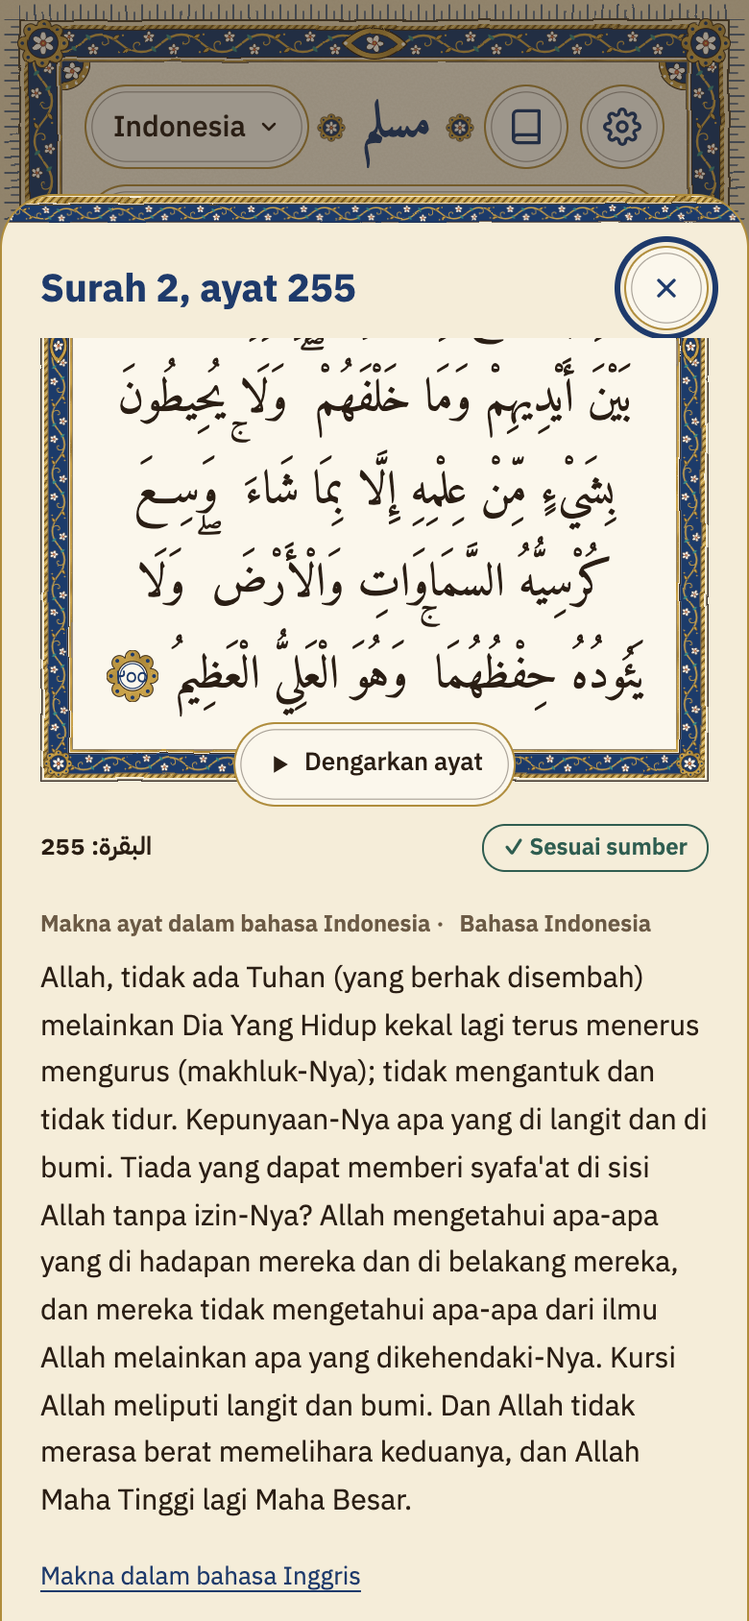
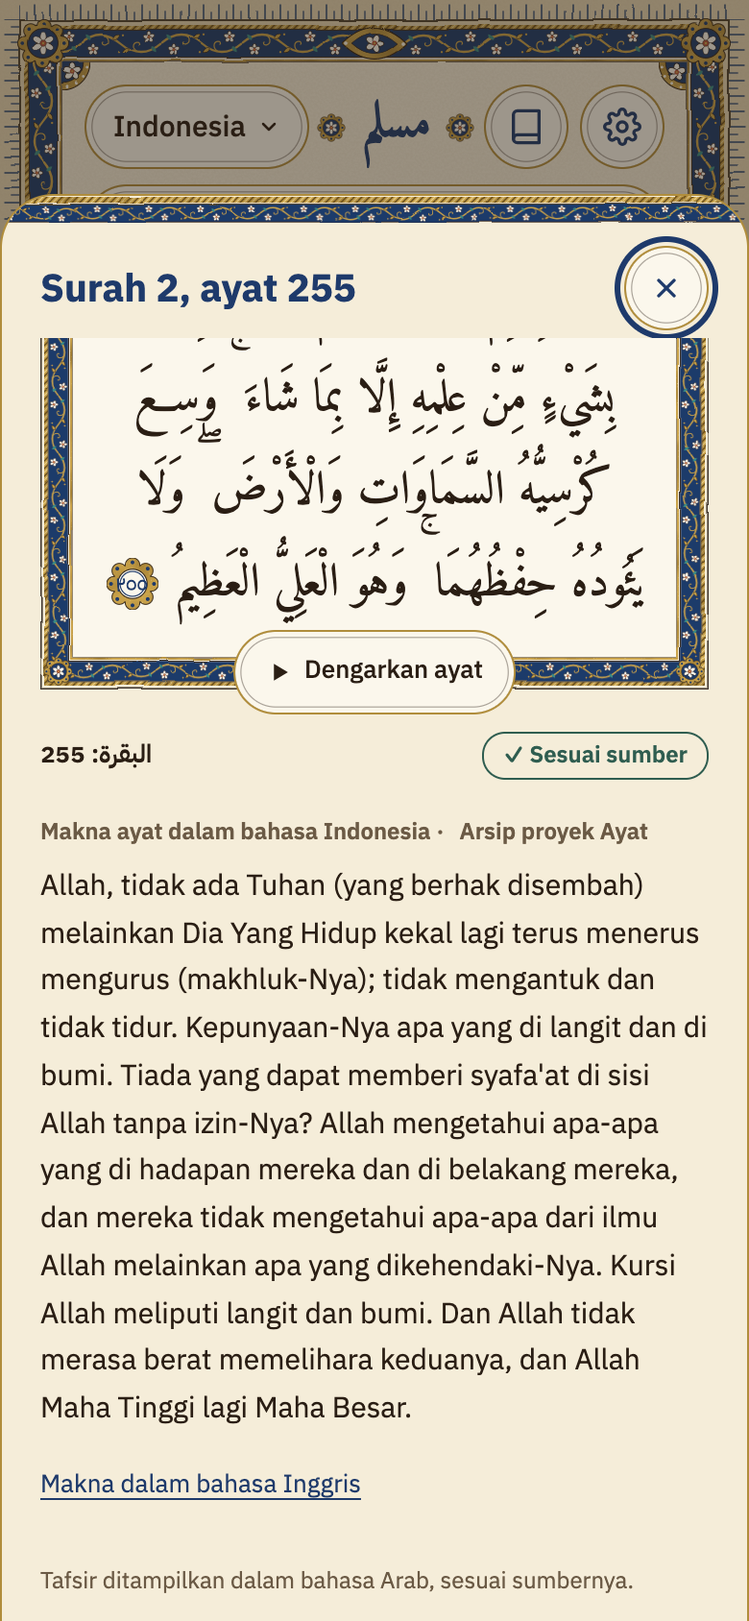
Where the Ayat archive names the language and not a translator (Indonesian: «Indonesian - Bahasa Indonesia»), the credit is «the Ayat project archive» in the interface language, never the language in the translator's place (reply 0025): the ayah sheet, the card, the surah view and the voice line; de
Claude-Session: https://claude.ai/code/session_01NhnKbqP2SqsDhU1SFEix5H

Changed region(s): [[0.0308, 0.1848, 0.9538, 0.9858], [0.5846, 0.955, 0.8308, 0.9858], [0.4, 0.1848, 0.4308, 0.2156]]

diff --git a/web/src/i18n/hi.ts b/web/src/i18n/hi.ts
@@ -62,7 +62,7 @@ const hi: Strings = {
   errServer: 'हमारी ओर से कोई गड़बड़ी हुई। फिर कोशिश करें।',
 
   sourcesTitle: 'उत्तर कहाँ से आते हैं?',
-  sourcesIntro: '«मुस्लिम» ऐप स्रोतों तक सीमित एक ज्ञान सहायक है, मुफ़्ती नहीं। यह केवल स्वीकृत पाठ से उत्तर देता है; पाठ न हो तो उत्तर देने से इनकार करता है और आपको सक्षम संस्था की ओर भेजता है। एआई का उपयोग पाठ खोजने और उन्हें क्रम देने, प्रश्न का स्तर तय करने, और आवाज़ को लिखित पाठ में बदलने के लिए होता है; यह कभी कोई धार्मिक पाठ नहीं लिखता या बदलता। सात भाषाओं में आयतों का अर्थ किंग सऊद विश्वविद्यालय की आयात परियोजना के अनुवादों से है: उर्दू (Jalandhry), इंडोनेशियाई (Bahasa Indonesia), मलय (Basmeih), तुर्की (Diyanet Isleri), फ़्रांसीसी (Hamidullah), स्पेनिश (Navio) और बांग्ला (Muhiuddin Khan); अंग्रेज़ी में Sahih International; हिंदी में अंग्रेज़ी दिखाई जाती है। अरबी के अलावा अन्य भाषाओं में चुनी हुई आयतों के लिए तफ़सीर अल-मुयस्सर का मशीनी अनुवाद है, जो स्वतंत्र समीक्षा में सफल रहा; कोई बनाई गई व्याख्या नहीं।',
+  sourcesIntro: '«मुस्लिम» ऐप स्रोतों तक सीमित एक ज्ञान सहायक है, मुफ़्ती नहीं। यह केवल स्वीकृत पाठ से उत्तर देता है; पाठ न हो तो उत्तर देने से इनकार करता है और आपको सक्षम संस्था की ओर भेजता है। एआई का उपयोग पाठ खोजने और उन्हें क्रम देने, प्रश्न का स्तर तय करने, और आवाज़ को लिखित पाठ में बदलने के लिए होता है; यह कभी कोई धार्मिक पाठ नहीं लिखता या बदलता। सात भाषाओं में आयतों का अर्थ किंग सऊद विश्वविद्यालय की आयात परियोजना के अनुवादों से है: उर्दू (Jalandhry), इंडोनेशियाई, मलय (Basmeih), तुर्की (Diyanet Isleri), फ़्रांसीसी (Hamidullah), स्पेनिश (Navio) और बांग्ला (Muhiuddin Khan); अंग्रेज़ी में Sahih International; हिंदी में अंग्रेज़ी दिखाई जाती है। अरबी के अलावा अन्य भाषाओं में चुनी हुई आयतों के लिए तफ़सीर अल-मुयस्सर का मशीनी अनुवाद है, जो स्वतंत्र समीक्षा में सफल रहा; कोई बनाई गई व्याख्या नहीं।',
   approvedSources: 'स्वीकृत स्रोत',
   srcQuran: 'क़ुरआन और उसकी तफ़सीर',
   srcQuranBy: 'आयात परियोजना, किंग सऊद विश्वविद्यालय',
@@ -234,6 +234,8 @@ const hi: Strings = {
   meaningMine: 'आयत का अर्थ', // command 22: the meaning in the reader's language (seven languages)
   meaningEnButton: 'अंग्रेज़ी में अर्थ',
   speakMeaningMine: 'आयत का अर्थ, {translator} के अनुवाद में',
+  meaningArchive: 'आयात परियोजना का संग्रह',
+  speakMeaningArchive: 'आयत का अर्थ, आयात परियोजना के संग्रह से',
   howFoundMeanings: 'सात भाषाओं में आयतों का अर्थ आयात परियोजना में अपनाए गए अनुवादों से है; अंग्रेज़ी में Sahih International से; हिंदी में अंग्रेज़ी दिखाई जाती है।',
   explainBoxTitle: "तफ़सीर अल-मुयस्सर की सरल मशीनी व्याख्या",
   explainSource: "स्रोत: तफ़सीर अल-मुयस्सर ↗",

diff --git a/web/src/i18n/bn.ts b/web/src/i18n/bn.ts
@@ -62,7 +62,7 @@ const bn: Strings = {
   errServer: 'আমাদের দিকে একটি সমস্যা হয়েছে। আবার চেষ্টা করুন।',
 
   sourcesTitle: 'উত্তরগুলো কোথা থেকে আসে?',
-  sourcesIntro: '«মুসলিম» অ্যাপ একটি উৎস-নির্ভর জ্ঞান সহকারী, মুফতি নয়। এটি কেবল অনুমোদিত পাঠ থেকে উত্তর দেয়; পাঠ না থাকলে বিরত থাকে এবং আপনাকে যোগ্য কর্তৃপক্ষের কাছে পাঠায়। এআই ব্যবহার করা হয় পাঠ খুঁজে বের করতে ও সাজাতে, প্রশ্নের স্তর নির্ধারণ করতে, এবং কথাকে লেখায় রূপান্তর করতে; এটি কখনো কোনো ধর্মীয় পাঠ লেখে না বা পরিবর্তন করে না। সাত ভাষায় আয়াতের অর্থ কিং সৌদ বিশ্ববিদ্যালয়ের আয়াত প্রকল্পের অনুবাদ থেকে: উর্দু (Jalandhry), ইন্দোনেশীয় (Bahasa Indonesia), মালয় (Basmeih), তুর্কি (Diyanet Isleri), ফরাসি (Hamidullah), স্প্যানিশ (Navio) ও বাংলা (Muhiuddin Khan); ইংরেজিতে Sahih International; হিন্দিতে ইংরেজি দেখানো হয়। আরবি ছাড়া অন্য ভাষায় নির্বাচিত আয়াতের জন্য তাফসীরুল মুয়াস্সারের যান্ত্রিক অনুবাদ আছে, যা স্বাধীন পর্যালোচনায় উত্তীর্ণ; কোনো তৈরি ব্যাখ্যা নেই।',
+  sourcesIntro: '«মুসলিম» অ্যাপ একটি উৎস-নির্ভর জ্ঞান সহকারী, মুফতি নয়। এটি কেবল অনুমোদিত পাঠ থেকে উত্তর দেয়; পাঠ না থাকলে বিরত থাকে এবং আপনাকে যোগ্য কর্তৃপক্ষের কাছে পাঠায়। এআই ব্যবহার করা হয় পাঠ খুঁজে বের করতে ও সাজাতে, প্রশ্নের স্তর নির্ধারণ করতে, এবং কথাকে লেখায় রূপান্তর করতে; এটি কখনো কোনো ধর্মীয় পাঠ লেখে না বা পরিবর্তন করে না। সাত ভাষায় আয়াতের অর্থ কিং সৌদ বিশ্ববিদ্যালয়ের আয়াত প্রকল্পের অনুবাদ থেকে: উর্দু (Jalandhry), ইন্দোনেশীয়, মালয় (Basmeih), তুর্কি (Diyanet Isleri), ফরাসি (Hamidullah), স্প্যানিশ (Navio) ও বাংলা (Muhiuddin Khan); ইংরেজিতে Sahih International; হিন্দিতে ইংরেজি দেখানো হয়। আরবি ছাড়া অন্য ভাষায় নির্বাচিত আয়াতের জন্য তাফসীরুল মুয়াস্সারের যান্ত্রিক অনুবাদ আছে, যা স্বাধীন পর্যালোচনায় উত্তীর্ণ; কোনো তৈরি ব্যাখ্যা নেই।',
   approvedSources: 'অনুমোদিত উৎস',
   srcQuran: 'কুরআন ও তার তাফসীর',
   srcQuranBy: 'আয়াত প্রকল্প, কিং সৌদ বিশ্ববিদ্যালয়',
@@ -234,6 +234,8 @@ const bn: Strings = {
   meaningMine: 'আয়াতের বাংলা অর্থ', // command 22: the meaning in the reader's language (seven languages)
   meaningEnButton: 'ইংরেজিতে অর্থ',
   speakMeaningMine: 'আয়াতের অর্থ, {translator}-এর অনুবাদে',
+  meaningArchive: 'আয়াত প্রকল্পের সংরক্ষণাগার',
+  speakMeaningArchive: 'আয়াতের অর্থ, আয়াত প্রকল্পের সংরক্ষণাগার থেকে',
   howFoundMeanings: 'সাত ভাষায় আয়াতের অর্থ আয়াত প্রকল্পে গৃহীত অনুবাদ থেকে; ইংরেজিতে Sahih International থেকে; হিন্দিতে ইংরেজি দেখানো হয়।',
   explainBoxTitle: "তাফসীরুল মুয়াস্সারের সহজ যান্ত্রিক ব্যাখ্যা",
   explainSource: "উৎস: তাফসীরুল মুয়াস্সার ↗",

diff --git a/web/src/i18n/ur.ts b/web/src/i18n/ur.ts
@@ -62,7 +62,7 @@ const ur: Strings = {
   errServer: 'ہماری طرف سے خرابی ہوئی۔ دوبارہ کوشش کریں۔',
 
   sourcesTitle: 'جوابات کہاں سے آتے ہیں؟',
-  sourcesIntro: '«مسلم» ایپ ماخذ تک محدود معلوماتی معاون ہے، مفتی نہیں۔ یہ صرف معتبر متن سے جواب دیتی ہے؛ متن نہ ہو تو جواب سے معذرت کرتی ہے اور آپ کو مجاز ادارے کی طرف بھیج دیتی ہے۔ مصنوعی ذہانت متون کی تلاش اور ترتیب، سوال کا درجہ طے کرنے، اور آواز کو متن میں بدلنے کے لیے استعمال ہوتی ہے؛ یہ کبھی کوئی شرعی متن نہیں لکھتی اور نہ اس میں تبدیلی کرتی ہے۔ آیات کا مفہوم سات زبانوں میں جامعہ ملک سعود کے منصوبۂ آیات کے تراجم سے ہے: اردو (جالندربرى)، انڈونیشیائی (Bahasa Indonesia)، ملائی (Basmeih)، ترکی (Diyanet Isleri)، فرانسیسی (Hamidullah)، ہسپانوی (Navio) اور بنگالی (Muhiuddin Khan)؛ انگریزی میں Sahih International، اور ہندی میں انگریزی دکھائی جاتی ہے۔ عربی کے علاوہ دیگر زبانوں میں منتخب آیات کے لیے التفسیر المیسر کا مشینی ترجمہ ہے، جو آزادانہ جائزے میں کامیاب رہا؛ کوئی تیار کردہ تشریح نہیں۔',
+  sourcesIntro: '«مسلم» ایپ ماخذ تک محدود معلوماتی معاون ہے، مفتی نہیں۔ یہ صرف معتبر متن سے جواب دیتی ہے؛ متن نہ ہو تو جواب سے معذرت کرتی ہے اور آپ کو مجاز ادارے کی طرف بھیج دیتی ہے۔ مصنوعی ذہانت متون کی تلاش اور ترتیب، سوال کا درجہ طے کرنے، اور آواز کو متن میں بدلنے کے لیے استعمال ہوتی ہے؛ یہ کبھی کوئی شرعی متن نہیں لکھتی اور نہ اس میں تبدیلی کرتی ہے۔ آیات کا مفہوم سات زبانوں میں جامعہ ملک سعود کے منصوبۂ آیات کے تراجم سے ہے: اردو (جالندربرى)، انڈونیشیائی، ملائی (Basmeih)، ترکی (Diyanet Isleri)، فرانسیسی (Hamidullah)، ہسپانوی (Navio) اور بنگالی (Muhiuddin Khan)؛ انگریزی میں Sahih International، اور ہندی میں انگریزی دکھائی جاتی ہے۔ عربی کے علاوہ دیگر زبانوں میں منتخب آیات کے لیے التفسیر المیسر کا مشینی ترجمہ ہے، جو آزادانہ جائزے میں کامیاب رہا؛ کوئی تیار کردہ تشریح نہیں۔',
   approvedSources: 'معتبر ماخذ',
   srcQuran: 'قرآن کریم اور اس کی تفسیر',
   srcQuranBy: 'آیات منصوبہ، شاہ سعود یونیورسٹی',
@@ -234,6 +234,8 @@ const ur: Strings = {
   meaningMine: 'آیت کا مفہوم اردو میں', // command 22: the meaning in the reader's language (seven languages)
   meaningEnButton: 'انگریزی میں مفہوم',
   speakMeaningMine: 'آیت کا مفہوم، {translator} کے ترجمے میں',
+  meaningArchive: 'منصوبۂ آیات کا ذخیرہ',
+  speakMeaningArchive: 'آیت کا مفہوم، منصوبۂ آیات کے ذخیرے سے',
   howFoundMeanings: 'آیات کا مفہوم سات زبانوں میں منصوبۂ آیات کے معتمد تراجم سے، انگریزی میں Sahih International سے، اور ہندی میں انگریزی دکھائی جاتی ہے۔',
   explainBoxTitle: "التفسیر المیسر کی آسان مشینی وضاحت",
   explainSource: "ماخذ: التفسیر المیسر ↗",

diff --git a/web/src/i18n/ar.ts b/web/src/i18n/ar.ts
@@ -62,7 +62,7 @@ const ar: Strings = {
   errServer: 'حدث خطأ من جهتنا. حاول مرة أخرى.',
 
   sourcesTitle: 'من أين تأتي الإجابات؟',
-  sourcesIntro: 'تطبيق «مسلم» مساعد معرفي مقيّد بالمصادر، وليس مفتيًا. لا يجيب إلا من نص معتمد، وإذا لم يوجد نص يمتنع ويحيل إلى الجهة المختصة. يُستعمل الذكاء الاصطناعي في البحث عن النصوص وترتيبها، وتحديد مستوى السؤال، وتحويل الصوت إلى نص؛ ولا يكتب نصًا شرعيًا ولا يعدّله. ومعاني الآيات بسبع لغات من ترجمات مشروع آيات بجامعة الملك سعود: الأردية (جالندربرى)، والإندونيسية (بهاسا إندونيسيا)، والملايوية (بصميح)، والتركية (ديانت)، والفرنسية (حميد الله)، والإسبانية (نابيو)، والبنغالية (محيي الدين خان)؛ وبالإنجليزية صحيح إنترناشيونال، وفي الهندية تُعرض الإنجليزية. ولغير العربية ترجمة آلية للتفسير الميسر لآيات مختارة، اجتازت مراجعة مستقلة؛ لا شرح مولّد.',
+  sourcesIntro: 'تطبيق «مسلم» مساعد معرفي مقيّد بالمصادر، وليس مفتيًا. لا يجيب إلا من نص معتمد، وإذا لم يوجد نص يمتنع ويحيل إلى الجهة المختصة. يُستعمل الذكاء الاصطناعي في البحث عن النصوص وترتيبها، وتحديد مستوى السؤال، وتحويل الصوت إلى نص؛ ولا يكتب نصًا شرعيًا ولا يعدّله. ومعاني الآيات بسبع لغات من ترجمات مشروع آيات بجامعة الملك سعود: الأردية (جالندربرى)، والإندونيسية، والملايوية (بصميح)، والتركية (ديانت)، والفرنسية (حميد الله)، والإسبانية (نابيو)، والبنغالية (محيي الدين خان)؛ وبالإنجليزية صحيح إنترناشيونال، وفي الهندية تُعرض الإنجليزية. ولغير العربية ترجمة آلية للتفسير الميسر لآيات مختارة، اجتازت مراجعة مستقلة؛ لا شرح مولّد.',
   approvedSources: 'المصادر المعتمدة',
   srcQuran: 'القرآن الكريم وتفسيره',
   srcQuranBy: 'مشروع المصحف الإلكتروني (آيات)، جامعة الملك سعود',
@@ -234,6 +234,8 @@ const ar: Strings = {
   meaningMine: 'معنى الآية بلغتك', // command 22: the meaning in the reader's language (seven languages)
   meaningEnButton: 'المعنى بالإنجليزية',
   speakMeaningMine: 'معنى الآية بترجمة {translator}',
+  meaningArchive: 'أرشيف مشروع آيات',
+  speakMeaningArchive: 'معنى الآية من أرشيف مشروع آيات',
   howFoundMeanings: 'معنى الآيات بسبع لغات من ترجمات معتمدة في مشروع آيات، وبالإنجليزية ترجمة صحيح إنترناشيونال، وبالهندية الإنجليزية.',
   explainBoxTitle: "شرح آلي مبسّط من التفسير الميسر",
   explainSource: "المصدر: التفسير الميسر ↗",

diff --git a/web/src/i18n/fr.ts b/web/src/i18n/fr.ts
@@ -62,7 +62,7 @@ const fr: Strings = {
   errServer: 'Une erreur s’est produite de notre côté. Réessayez.',
 
   sourcesTitle: 'D’où viennent les réponses ?',
-  sourcesIntro: 'L’application Muslim est un assistant de connaissances limité aux sources, pas un mufti. Elle ne répond qu’à partir d’un texte approuvé ; sans texte, elle s’abstient et vous renvoie vers l’autorité compétente. L’IA sert à rechercher les textes et à les classer, à déterminer le niveau de la question et à transcrire la parole en texte ; elle n’écrit ni ne modifie jamais un texte religieux. Le sens des versets en sept langues provient des traductions du projet Ayat de l’Université du Roi Saoud : ourdou (Jalandhry), indonésien (Bahasa Indonesia), malais (Basmeih), turc (Diyanet Isleri), français (Hamidullah), espagnol (Navio) et bengali (Muhiuddin Khan) ; en anglais, Sahih International ; en hindi, l’anglais est affiché. Hors de l’arabe, des versets choisis ont une traduction automatique du Tafsir al-Muyassar, validée par une relecture indépendante ; aucune explication n’est générée.',
+  sourcesIntro: 'L’application Muslim est un assistant de connaissances limité aux sources, pas un mufti. Elle ne répond qu’à partir d’un texte approuvé ; sans texte, elle s’abstient et vous renvoie vers l’autorité compétente. L’IA sert à rechercher les textes et à les classer, à déterminer le niveau de la question et à transcrire la parole en texte ; elle n’écrit ni ne modifie jamais un texte religieux. Le sens des versets en sept langues provient des traductions du projet Ayat de l’Université du Roi Saoud : ourdou (Jalandhry), indonésien, malais (Basmeih), turc (Diyanet Isleri), français (Hamidullah), espagnol (Navio) et bengali (Muhiuddin Khan) ; en anglais, Sahih International ; en hindi, l’anglais est affiché. Hors de l’arabe, des versets choisis ont une traduction automatique du Tafsir al-Muyassar, validée par une relecture indépendante ; aucune explication n’est générée.',
   approvedSources: 'Sources approuvées',
   srcQuran: 'Le Coran et son tafsir',
   srcQuranBy: 'Projet Ayat, Université du Roi Saoud',
@@ -234,6 +234,8 @@ const fr: Strings = {
   meaningMine: 'Sens du verset en français', // command 22: the meaning in the reader's language (seven languages)
   meaningEnButton: 'Sens en anglais',
   speakMeaningMine: 'Le sens du verset, dans la traduction de {translator}',
+  meaningArchive: 'Archive du projet Ayat',
+  speakMeaningArchive: 'Le sens du verset, d’après l’archive du projet Ayat',
   howFoundMeanings: 'Le sens des versets en sept langues vient des traductions retenues par le projet Ayat ; en anglais, de Sahih International ; en hindi, l’anglais est affiché.',
   explainBoxTitle: "Explication automatique simple du Tafsir al-Muyassar",
   explainSource: "Source : Tafsir al-Muyassar ↗",

diff --git a/web/src/i18n/es.ts b/web/src/i18n/es.ts
@@ -62,7 +62,7 @@ const es: Strings = {
   errServer: 'Algo falló de nuestro lado. Inténtalo de nuevo.',
 
   sourcesTitle: '¿De dónde vienen las respuestas?',
-  sourcesIntro: 'La aplicación Muslim es un asistente de conocimiento limitado a las fuentes, no un muftí. Solo responde a partir de un texto aprobado; si no hay texto, se abstiene y te remite a la autoridad competente. La IA se usa para buscar textos y ordenarlos, determinar el nivel de la pregunta y pasar la voz a texto; nunca escribe ni modifica un texto religioso. El significado de las aleyas en siete idiomas procede de las traducciones del proyecto Ayat de la Universidad Rey Saud: urdu (Jalandhry), indonesio (Bahasa Indonesia), malayo (Basmeih), turco (Diyanet Isleri), francés (Hamidullah), español (Navio) y bengalí (Muhiuddin Khan); en inglés, Sahih International; en hindi se muestra el inglés. Fuera del árabe, algunas aleyas seleccionadas tienen una traducción automática del Tafsir al-Muyassar que superó una revisión independiente; no hay explicación generada.',
+  sourcesIntro: 'La aplicación Muslim es un asistente de conocimiento limitado a las fuentes, no un muftí. Solo responde a partir de un texto aprobado; si no hay texto, se abstiene y te remite a la autoridad competente. La IA se usa para buscar textos y ordenarlos, determinar el nivel de la pregunta y pasar la voz a texto; nunca escribe ni modifica un texto religioso. El significado de las aleyas en siete idiomas procede de las traducciones del proyecto Ayat de la Universidad Rey Saud: urdu (Jalandhry), indonesio, malayo (Basmeih), turco (Diyanet Isleri), francés (Hamidullah), español (Navio) y bengalí (Muhiuddin Khan); en inglés, Sahih International; en hindi se muestra el inglés. Fuera del árabe, algunas aleyas seleccionadas tienen una traducción automática del Tafsir al-Muyassar que superó una revisión independiente; no hay explicación generada.',
   approvedSources: 'Fuentes aprobadas',
   srcQuran: 'El Corán y su tafsir',
   srcQuranBy: 'Proyecto Ayat, Universidad Rey Saúd',
@@ -234,6 +234,8 @@ const es: Strings = {
   meaningMine: 'Significado de la aleya en español', // command 22: the meaning in the reader's language (seven languages)
   meaningEnButton: 'Significado en inglés',
   speakMeaningMine: 'El significado de la aleya, en la traducción de {translator}',
+  meaningArchive: 'Archivo del proyecto Ayat',
+  speakMeaningArchive: 'El significado de la aleya, del archivo del proyecto Ayat',
   howFoundMeanings: 'El significado de las aleyas en siete idiomas procede de las traducciones adoptadas por el proyecto Ayat; en inglés, de Sahih International; en hindi se muestra el inglés.',
   explainBoxTitle: "Explicación automática sencilla del Tafsir al-Muyassar",
   explainSource: "Fuente: Tafsir al-Muyassar ↗",

diff --git a/web/src/i18n/ms.ts b/web/src/i18n/ms.ts
@@ -62,7 +62,7 @@ const ms: Strings = {
   errServer: 'Berlaku ralat di pihak kami. Cuba lagi.',
 
   sourcesTitle: 'Dari mana datangnya jawapan?',
-  sourcesIntro: 'Aplikasi “Muslim” ialah pembantu pengetahuan yang terikat pada sumber, bukan mufti. Ia hanya menjawab daripada teks muktabar; jika tiada teks, ia menolak dan merujuk anda kepada pihak berkuasa yang berkelayakan. AI digunakan untuk mencari teks dan menyusunnya, menentukan tahap soalan, dan menukar suara kepada teks; ia tidak pernah menulis atau mengubah teks agama. Makna ayat dalam tujuh bahasa diambil daripada terjemahan projek Ayat Universiti King Saud: Urdu (Jalandhry), Indonesia (Bahasa Indonesia), Melayu (Basmeih), Turki (Diyanet Isleri), Perancis (Hamidullah), Sepanyol (Navio) dan Benggali (Muhiuddin Khan); bahasa Inggeris daripada Sahih International; bagi bahasa Hindi dipaparkan bahasa Inggeris. Selain bahasa Arab, ayat-ayat terpilih mempunyai terjemahan mesin Tafsir al-Muyassar yang lulus semakan bebas; tiada penjelasan janaan mesin.',
+  sourcesIntro: 'Aplikasi “Muslim” ialah pembantu pengetahuan yang terikat pada sumber, bukan mufti. Ia hanya menjawab daripada teks muktabar; jika tiada teks, ia menolak dan merujuk anda kepada pihak berkuasa yang berkelayakan. AI digunakan untuk mencari teks dan menyusunnya, menentukan tahap soalan, dan menukar suara kepada teks; ia tidak pernah menulis atau mengubah teks agama. Makna ayat dalam tujuh bahasa diambil daripada terjemahan projek Ayat Universiti King Saud: Urdu (Jalandhry), Indonesia, Melayu (Basmeih), Turki (Diyanet Isleri), Perancis (Hamidullah), Sepanyol (Navio) dan Benggali (Muhiuddin Khan); bahasa Inggeris daripada Sahih International; bagi bahasa Hindi dipaparkan bahasa Inggeris. Selain bahasa Arab, ayat-ayat terpilih mempunyai terjemahan mesin Tafsir al-Muyassar yang lulus semakan bebas; tiada penjelasan janaan mesin.',
   approvedSources: 'Sumber muktabar',
   srcQuran: 'Al-Quran dan tafsirnya',
   srcQuranBy: 'Projek Ayat, Universiti King Saud',
@@ -234,6 +234,8 @@ const ms: Strings = {
   meaningMine: 'Makna ayat dalam bahasa Melayu', // command 22: the meaning in the reader's language (seven languages)
   meaningEnButton: 'Makna dalam bahasa Inggeris',
   speakMeaningMine: 'Makna ayat menurut terjemahan {translator}',
+  meaningArchive: 'Arkib projek Ayat',
+  speakMeaningArchive: 'Makna ayat daripada arkib projek Ayat',
   howFoundMeanings: 'Makna ayat dalam tujuh bahasa diambil daripada terjemahan yang digunakan projek Ayat; dalam bahasa Inggeris daripada Sahih International; bagi bahasa Hindi dipaparkan bahasa Inggeris.',
   explainBoxTitle: "Penerangan mesin ringkas daripada Tafsir al-Muyassar",
   explainSource: "Sumber: Tafsir al-Muyassar ↗",

diff --git a/web/src/i18n/tr.ts b/web/src/i18n/tr.ts
@@ -62,7 +62,7 @@ const tr: Strings = {
   errServer: 'Bizim tarafımızda bir hata oluştu. Tekrar deneyin.',
 
   sourcesTitle: 'Cevaplar nereden geliyor?',
-  sourcesIntro: 'Muslim uygulaması kaynağa bağlı bir bilgi asistanıdır, müftü değildir. Yalnızca onaylı bir metinden cevap verir; metin yoksa cevap vermez ve sizi yetkili kuruma yönlendirir. Yapay zekâ metinleri aramak ve sıralamak, sorunun seviyesini belirlemek ve sesi metne çevirmek için kullanılır; asla dinî bir metin yazmaz veya değiştirmez. Ayetlerin yedi dildeki anlamı Kral Suud Üniversitesi\'nin Ayat projesindeki meallerdendir: Urduca (Jalandhry), Endonezce (Bahasa Indonesia), Malayca (Basmeih), Türkçe (Diyanet Isleri), Fransızca (Hamidullah), İspanyolca (Navio) ve Bengalce (Muhiuddin Khan); İngilizcede Sahih International; Hintçede İngilizcesi gösterilir. Arapça dışındaki dillerde seçili ayetler için et-Tefsîru\'l-Müyesser\'in bağımsız incelemeden geçmiş bir makine çevirisi vardır; üretilmiş açıklama yoktur.',
+  sourcesIntro: 'Muslim uygulaması kaynağa bağlı bir bilgi asistanıdır, müftü değildir. Yalnızca onaylı bir metinden cevap verir; metin yoksa cevap vermez ve sizi yetkili kuruma yönlendirir. Yapay zekâ metinleri aramak ve sıralamak, sorunun seviyesini belirlemek ve sesi metne çevirmek için kullanılır; asla dinî bir metin yazmaz veya değiştirmez. Ayetlerin yedi dildeki anlamı Kral Suud Üniversitesi\'nin Ayat projesindeki meallerdendir: Urduca (Jalandhry), Endonezce, Malayca (Basmeih), Türkçe (Diyanet Isleri), Fransızca (Hamidullah), İspanyolca (Navio) ve Bengalce (Muhiuddin Khan); İngilizcede Sahih International; Hintçede İngilizcesi gösterilir. Arapça dışındaki dillerde seçili ayetler için et-Tefsîru\'l-Müyesser\'in bağımsız incelemeden geçmiş bir makine çevirisi vardır; üretilmiş açıklama yoktur.',
   approvedSources: 'Onaylı kaynaklar',
   srcQuran: 'Kur’an-ı Kerim ve tefsiri',
   srcQuranBy: 'Ayat projesi, Kral Suud Üniversitesi',
@@ -234,6 +234,8 @@ const tr: Strings = {
   meaningMine: 'Ayetin Türkçe meali', // command 22: the meaning in the reader's language (seven languages)
   meaningEnButton: 'İngilizce anlamı',
   speakMeaningMine: 'Ayetin anlamı, {translator} mealine göre',
+  meaningArchive: 'Ayat projesi arşivi',
+  speakMeaningArchive: 'Ayetin anlamı, Ayat projesi arşivinden',
   howFoundMeanings: 'Ayetlerin yedi dildeki anlamı Ayat projesinde kullanılan meallerden, İngilizcede Sahih International\'dan gelir; Hintçede İngilizcesi gösterilir.',
   explainBoxTitle: "et-Tefsîru'l-Müyesser'in basit makine açıklaması",
   explainSource: "Kaynak: et-Tefsîru'l-Müyesser ↗",

diff --git a/web/src/i18n/id.ts b/web/src/i18n/id.ts
@@ -62,7 +62,7 @@ const id: Strings = {
   errServer: 'Terjadi kesalahan di pihak kami. Coba lagi.',
 
   sourcesTitle: 'Dari mana jawaban berasal?',
-  sourcesIntro: 'Aplikasi “Muslim” adalah asisten pengetahuan berbasis sumber, bukan mufti. Ia hanya menjawab dari teks sumber yang diakui; jika tidak ada teks, ia menolak dan merujuk Anda ke lembaga berwenang. AI digunakan untuk mencari dan mengurutkan teks, menentukan tingkat pertanyaan, dan mengubah suara menjadi teks; AI tidak pernah menulis atau mengubah teks keagamaan. Makna ayat dalam tujuh bahasa berasal dari terjemahan proyek Ayat Universitas King Saud: Urdu (Jalandhry), Indonesia (Bahasa Indonesia), Melayu (Basmeih), Turki (Diyanet Isleri), Prancis (Hamidullah), Spanyol (Navio), dan Bengali (Muhiuddin Khan); bahasa Inggris dari Sahih International; untuk bahasa Hindi ditampilkan bahasa Inggris. Di luar bahasa Arab, ayat-ayat terpilih memiliki terjemahan mesin Tafsir al-Muyassar yang lolos tinjauan independen; tidak ada penjelasan buatan mesin.',
+  sourcesIntro: 'Aplikasi “Muslim” adalah asisten pengetahuan berbasis sumber, bukan mufti. Ia hanya menjawab dari teks sumber yang diakui; jika tidak ada teks, ia menolak dan merujuk Anda ke lembaga berwenang. AI digunakan untuk mencari dan mengurutkan teks, menentukan tingkat pertanyaan, dan mengubah suara menjadi teks; AI tidak pernah menulis atau mengubah teks keagamaan. Makna ayat dalam tujuh bahasa berasal dari terjemahan proyek Ayat Universitas King Saud: Urdu (Jalandhry), Indonesia, Melayu (Basmeih), Turki (Diyanet Isleri), Prancis (Hamidullah), Spanyol (Navio), dan Bengali (Muhiuddin Khan); bahasa Inggris dari Sahih International; untuk bahasa Hindi ditampilkan bahasa Inggris. Di luar bahasa Arab, ayat-ayat terpilih memiliki terjemahan mesin Tafsir al-Muyassar yang lolos tinjauan independen; tidak ada penjelasan buatan mesin.',
   approvedSources: 'Sumber yang diakui',
   srcQuran: 'Al-Qur’an dan tafsirnya',
   srcQuranBy: 'Proyek Ayat, Universitas King Saud',
@@ -234,6 +234,8 @@ const id: Strings = {
   meaningMine: 'Makna ayat dalam bahasa Indonesia', // command 22: the meaning in the reader's language (seven languages)
   meaningEnButton: 'Makna dalam bahasa Inggris',
   speakMeaningMine: 'Makna ayat menurut terjemahan {translator}',
+  meaningArchive: 'Arsip proyek Ayat',
+  speakMeaningArchive: 'Makna ayat dari arsip proyek Ayat',
   howFoundMeanings: 'Makna ayat dalam tujuh bahasa berasal dari terjemahan yang dipakai proyek Ayat; dalam bahasa Inggris dari Sahih International; untuk bahasa Hindi ditampilkan bahasa Inggris.',
   explainBoxTitle: "Penjelasan sederhana oleh mesin dari Tafsir al-Muyassar",
   explainSource: "Sumber: Tafsir al-Muyassar ↗",

diff --git a/web/src/i18n/en.ts b/web/src/i18n/en.ts
@@ -60,7 +60,7 @@ const en = {
   errServer: 'Something went wrong on our side. Please try again.',
 
   sourcesTitle: 'Where do the answers come from?',
-  sourcesIntro: 'The Muslim app is a source-bound knowledge assistant, not a mufti. It answers only from an approved text; when there is no text it declines and refers you to the qualified authority. AI is used to search for texts and rank them, set the question\'s level, and turn speech into text; it never writes or edits a religious text. The meanings of the ayat in seven languages come from the translations in the Ayat project of King Saud University: Urdu (Jalandhry), Indonesian (Bahasa Indonesia), Malay (Basmeih), Turkish (Diyanet Isleri), French (Hamidullah), Spanish (Navio) and Bengali (Muhiuddin Khan); in English, Sahih International; in Hindi, the English is shown. Outside Arabic, selected ayat have a machine translation of al-Tafsir al-Muyassar that passed independent review; there is no generated explanation.',
+  sourcesIntro: 'The Muslim app is a source-bound knowledge assistant, not a mufti. It answers only from an approved text; when there is no text it declines and refers you to the qualified authority. AI is used to search for texts and rank them, set the question\'s level, and turn speech into text; it never writes or edits a religious text. The meanings of the ayat in seven languages come from the translations in the Ayat project of King Saud University: Urdu (Jalandhry), Indonesian, Malay (Basmeih), Turkish (Diyanet Isleri), French (Hamidullah), Spanish (Navio) and Bengali (Muhiuddin Khan); in English, Sahih International; in Hindi, the English is shown. Outside Arabic, selected ayat have a machine translation of al-Tafsir al-Muyassar that passed independent review; there is no generated explanation.',
   approvedSources: 'Approved sources',
   srcQuran: 'The Quran and its tafsir',
   srcQuranBy: 'Electronic Mushaf project (Ayat), King Saud University',
@@ -232,6 +232,8 @@ const en = {
   meaningMine: 'Meaning in your language', // command 22: the meaning in the reader's language (seven languages)
   meaningEnButton: 'Meaning in English',
   speakMeaningMine: 'The meaning of the ayah, in the translation of {translator}',
+  meaningArchive: 'Ayat project archive',
+  speakMeaningArchive: 'The meaning of the ayah, from the Ayat project archive',
   howFoundMeanings: 'The meaning of the ayat in seven languages comes from translations adopted in the Ayat project; in English from Sahih International; in Hindi the English is shown.',
   explainBoxTitle: "Simple machine explanation of al-Tafsir al-Muyassar",
   explainSource: "Source: al-Tafsir al-Muyassar ↗",

diff --git a/web/src/trust/speakable.ts b/web/src/trust/speakable.ts
@@ -2,6 +2,7 @@ import type { AskResponse, Lang, Quote } from '../../../shared/api'
 import type { Strings } from '../i18n/en'
 import guard from '../config/voice-guard.json'
 import { BASMALA, findRuns, matchWords, passageQuotes, protectedRuns, sharesRun, splitPassage, type Runs } from './sacred'
+import { namedTranslator } from '../quran/meaning-credit'
 
 // What voice conversation (command 12) may read aloud from a reply. Pure: the reply in, a list of parts out;
 // voice/speaker.ts speaks them with the device voices.
@@ -41,6 +42,7 @@ export type SpeakStrings = Pick<
   | 'speakMuyassar'
   | 'speakMeaningEn'
   | 'speakMeaningMine'
+  | 'speakMeaningArchive'
   | 'speakMachineMuyassar'
   | 'speakMachinePassage'
   | 'speakMachineAnswer'
@@ -194,7 +196,8 @@ export function speakable({ res, lang, t, ar, explanation, meaningEn = true }: S
           if (muyassar && !muyassarQuotesOther.has(q.id) && !sharesRun(muyassar, ayahRuns)) out.push(say(`${t.speakMuyassar} ${muyassar}`))
         } else if (q.meaning) {
           // The human translation of the meaning in the reader's language (command 22), named by its translator.
-          out.push(say(fill(t.speakMeaningMine, { translator: q.meaning.translator })), say(q.meaning.text, q.meaning.lang as Lang))
+          const who = namedTranslator(q.meaning)
+          out.push(say(who ? fill(t.speakMeaningMine, { translator: who }) : t.speakMeaningArchive), say(q.meaning.text, q.meaning.lang as Lang))
         } else if (q.text_en && (meaningEn || lang === 'en')) {
           out.push(say(t.speakMeaningEn), say(q.text_en, 'en'))
         }

diff --git a/web/e2e/meaning.spec.ts b/web/e2e/meaning.spec.ts
@@ -48,6 +48,11 @@ for (const [lang, t, word] of [['id', id, 'Allah'], ['tr', tr, 'Allah']] as cons
     const block = sheetOf(page).locator('.meaning-block')
     await expect(block.locator(`p.translation[lang="${lang}"]`)).toContainText(word)
     await expect(block.locator('.section-label').first()).toContainText(t.meaningMine)
+    // Indonesian: the source names the language, not a translator, so the credit is the archive (reply 0025).
+    if (lang === 'id') {
+      await expect(block.locator('.section-label').first()).toContainText(id.meaningArchive)
+      await expect(block.locator('.section-label').first()).not.toContainText('Bahasa Indonesia')
+    } else await expect(block.locator('.section-label').first()).toContainText('Diyanet Isleri')
     await expect(block.getByRole('button', { name: t.meaningEnButton })).toBeVisible()
     await block.scrollIntoViewIfNeeded()
     if (test.info().project.name === 'mobile') await page.screenshot({ path: path.join(SHOTS, `meaning-sheet-${lang}-390.png`) })
